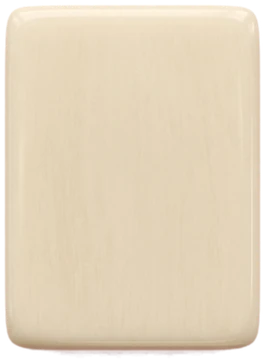
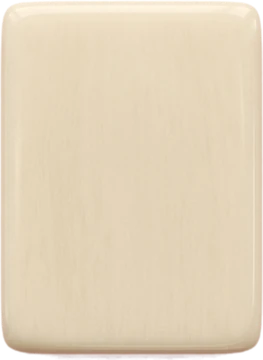
Stein-Stapel: Filz-Lücken schließen (randloser Blankostein + Bleed)
Der freigestellte Blankostein hatte einen transparenten Rand -> sichtbare
Fläche kleiner als das Rasterfeld -> Filz-Lücken zwischen Nachbarsteinen.
Fix: Blankostein randlos zuschneiden (extract_blank pad 6->0) und die Deck-
fläche in TileFace mit kleinem Bleed (x1 y1 w58 h76) übers 54x72-Feld hinaus
zeichnen, sodass sich Steine minimal überlappen. 3D-/Stapel-Effekt bleibt.

Claude-Session: https://claude.ai/code/session_01UvHu4Y4Y7eguqeSboXzKnJ

Changed region(s): [[0.0, 0.0, 1.0, 1.0]]

diff --git a/src/ui/Tile.tsx b/src/ui/Tile.tsx
@@ -148,12 +148,15 @@ const SOU: Record<number, [number, number][]> = {
 // darüber. `corpus` > 0 legt darunter eine abgedunkelte, nach unten versetzte Kopie
 // als dezente Steindicke (3D-Block) an.
 function TileFace({ children, corpus = 0 }: { children: React.ReactNode; corpus?: number }) {
+  // Deckfläche wird mit kleinem Bleed (2 Einheiten) über das 54×72-Rasterfeld
+  // (x3..57, y3..75) hinaus gezeichnet, damit sich Nachbarsteine minimal
+  // überlappen und kein Filz durchblitzt. Das Footprint-Mapping (CSS) bleibt 54×72.
   return (
     <>
       {corpus > 0 && (
-        <image href={blankTile} x="3" y={3 + corpus} width="54" height="72" preserveAspectRatio="none" filter="url(#tiledark)" />
+        <image href={blankTile} x="1" y={1 + corpus} width="58" height="76" preserveAspectRatio="none" filter="url(#tiledark)" />
       )}
-      <image href={blankTile} x="3" y="3" width="54" height="72" preserveAspectRatio="none" />
+      <image href={blankTile} x="1" y="1" width="58" height="76" preserveAspectRatio="none" />
       {children}
     </>
   );

diff --git a/scripts/extract_tiles.py b/scripts/extract_tiles.py
@@ -112,7 +112,7 @@ def extract_blank(in_path: str, out_path: str) -> None:
     rgba = np.dstack([out, alpha * 255.0]).astype(np.uint8)
     ys, xs = np.where(alpha > 0.05)
     if len(xs):
-        pad = 6
+        pad = 0  # randlos: Silhouette fuellt die Bounding-Box -> keine Filz-Luecken
         y0, y1 = max(ys.min() - pad, 0), min(ys.max() + pad + 1, arr.shape[0])
         x0, x1 = max(xs.min() - pad, 0), min(xs.max() + pad + 1, arr.shape[1])
         rgba = rgba[y0:y1, x0:x1]
